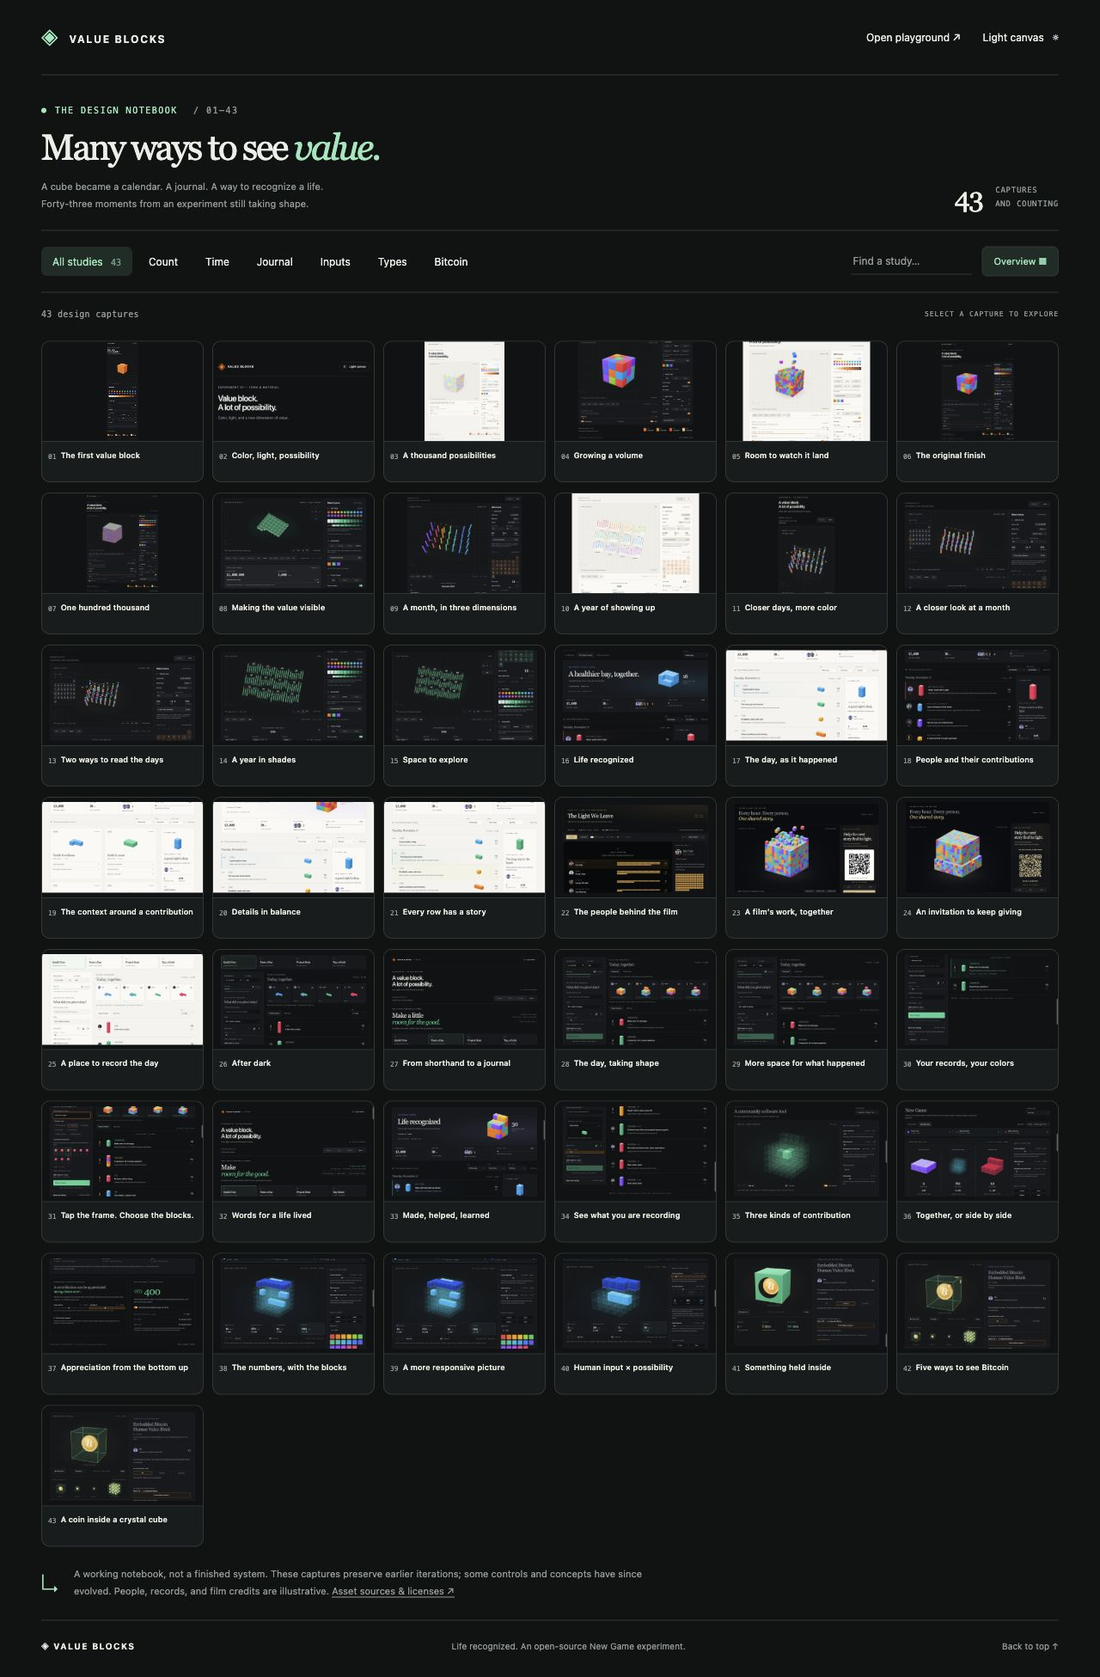
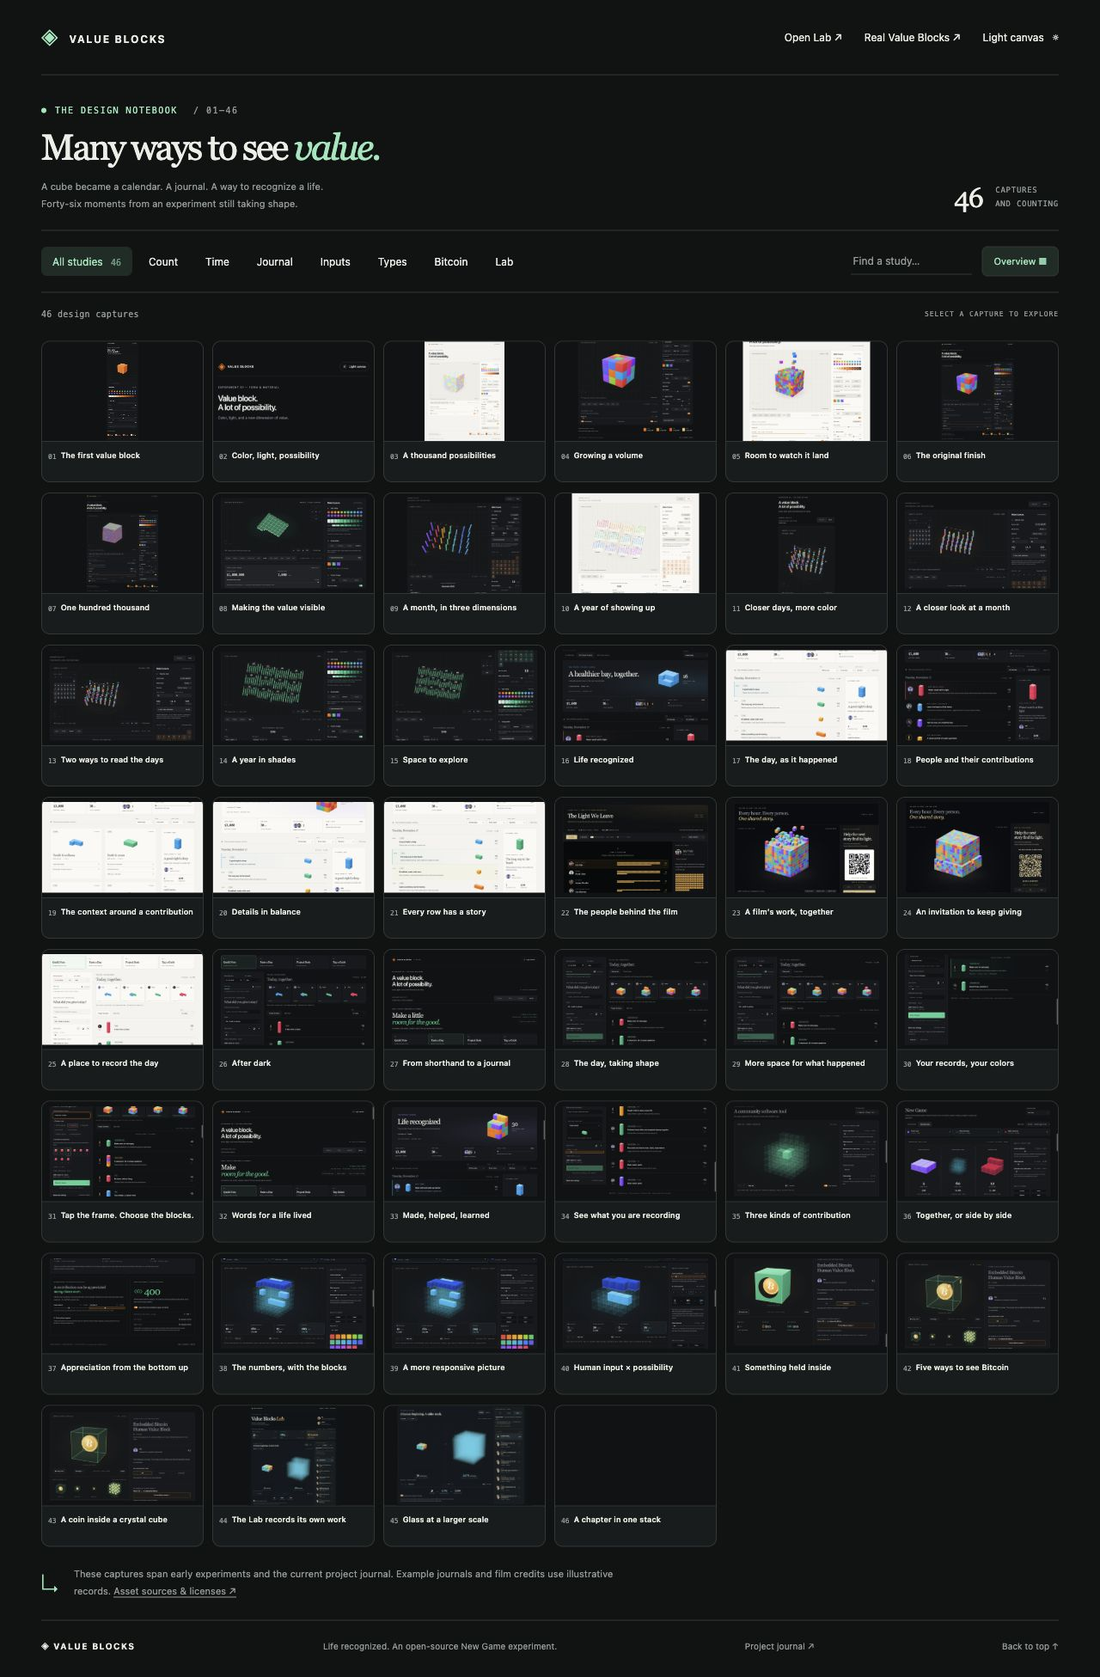
Refresh the Value Blocks gallery and README
Add three current project journal captures and make the Lab, Real Value Blocks, and Gallery easy to find from the README. Refresh the previews and use the supplied Bitcoin QR artwork with the verified project address.

Changed region(s): [[0.0625, 0.8303, 0.4688, 0.9534], [0.8125, 0.0, 0.8438, 0.0308]]

diff --git a/gallery.html b/gallery.html
@@ -3,7 +3,7 @@
 <head>
   <meta charset="utf-8">
   <meta name="viewport" content="width=device-width,initial-scale=1">
-  <meta name="description" content="43 design studies from the Value Blocks playground: 3D cubes, calendars, journals, recording interfaces, and human contributions.">
+  <meta name="description" content="46 design studies from the Value Blocks playground: 3D cubes, calendars, journals, recording interfaces, and human contributions.">
   <title>Design gallery — Value Blocks</title>
   <link rel="stylesheet" href="gallery.css">
   <script src="gallery.js" defer></script>
@@ -11,21 +11,21 @@
 <body>
   <a class="skip-link" href="#captures">Skip to the captures</a>
   <div class="gallery-shell">
-    <header class="gallery-nav"><a class="wordmark" href="index.html"><span aria-hidden="true">◈</span> VALUE BLOCKS</a><nav aria-label="Gallery navigation"><a href="index.html">Open playground <span aria-hidden="true">↗</span></a><button id="theme" aria-label="Switch to light canvas">Light canvas <span aria-hidden="true">☼</span></button></nav></header>
+    <header class="gallery-nav"><a class="wordmark" href="index.html"><span aria-hidden="true">◈</span> VALUE BLOCKS</a><nav aria-label="Gallery navigation"><a href="index.html">Open Lab <span aria-hidden="true">↗</span></a><a href="lab.html">Real Value Blocks <span aria-hidden="true">↗</span></a><button id="theme" aria-label="Switch to light canvas">Light canvas <span aria-hidden="true">☼</span></button></nav></header>
     <main>
       <section class="gallery-intro" aria-labelledby="gallery-title">
-        <p class="eyebrow"><span class="status-dot"></span> THE DESIGN NOTEBOOK <span class="edition">/ 01—43</span></p>
+        <p class="eyebrow"><span class="status-dot"></span> THE DESIGN NOTEBOOK <span class="edition">/ 01—46</span></p>
         <h1 id="gallery-title">Many ways to<br> see <em>value.</em></h1>
-        <div class="intro-bottom"><p>A cube became a calendar. A journal. A way to recognize a life.<br>Forty-three moments from an experiment still taking shape.</p><div class="gallery-stat"><strong>43</strong><span>CAPTURES<br>AND COUNTING</span></div></div>
+        <div class="intro-bottom"><p>A cube became a calendar. A journal. A way to recognize a life.<br>Forty-six moments from an experiment still taking shape.</p><div class="gallery-stat"><strong>46</strong><span>CAPTURES<br>AND COUNTING</span></div></div>
       </section>
       <section class="gallery-controls" aria-label="Browse captures">
         <div class="filters" role="group" aria-label="Filter by study">
-          <button data-filter="All" aria-pressed="true">All studies <span>43</span></button>
-          <button data-filter="Count" aria-pressed="false">Count</button><button data-filter="Time" aria-pressed="false">Time</button><button data-filter="Journal" aria-pressed="false">Journal</button><button data-filter="Inputs" aria-pressed="false">Inputs</button><button data-filter="Types" aria-pressed="false">Types</button><button data-filter="Bitcoin" aria-pressed="false">Bitcoin</button>
+          <button data-filter="All" aria-pressed="true">All studies <span>46</span></button>
+          <button data-filter="Count" aria-pressed="false">Count</button><button data-filter="Time" aria-pressed="false">Time</button><button data-filter="Journal" aria-pressed="false">Journal</button><button data-filter="Inputs" aria-pressed="false">Inputs</button><button data-filter="Types" aria-pressed="false">Types</button><button data-filter="Bitcoin" aria-pressed="false">Bitcoin</button><button data-filter="Lab" aria-pressed="false">Lab</button>
         </div>
         <div class="view-controls"><label class="search"><span class="visually-hidden">Search captures</span><input id="search" type="search" placeholder="Find a study…"></label><button id="overview" aria-pressed="false">Overview <span aria-hidden="true">▦</span></button></div>
       </section>
-      <div class="results-line"><p id="results" role="status">43 design captures</p><span>SELECT A CAPTURE TO EXPLORE</span></div>
+      <div class="results-line"><p id="results" role="status">46 design captures</p><span>SELECT A CAPTURE TO EXPLORE</span></div>
       <section id="captures" class="capture-grid" aria-label="Design captures">
       <!-- CAPTURES:START -->
       <article class="capture" data-category="Count">
@@ -286,10 +286,28 @@
           <div class="capture-caption"><span class="capture-number">43</span><div><h2>A coin inside a crystal cube</h2><p>A glass human block with the coin visible as it rotates.</p></div><span class="capture-category">Bitcoin</span></div>
         </a>
       </article>
+      <article class="capture" data-category="Lab">
+        <a class="capture-link" href="gallery-assets/captures/lab-real-journal.jpg" aria-label="View The Lab records its own work">
+          <div class="capture-image"><img src="gallery-assets/captures/lab-real-journal.jpg" alt="Bob and Lindsay’s real journal with 31 human blocks and 689 estimated robot blocks in the Working view." loading="lazy" decoding="async"></div>
+          <div class="capture-caption"><span class="capture-number">44</span><div><h2>The Lab records its own work</h2><p>Bob and Lindsay’s real journal with 31 human blocks and 689 estimated robot blocks in the Working view.</p></div><span class="capture-category">Lab</span></div>
+        </a>
+      </article>
+      <article class="capture" data-category="Lab">
+        <a class="capture-link" href="gallery-assets/captures/lab-deep-webgl.jpg" aria-label="View Glass at a larger scale">
+          <div class="capture-image"><img src="gallery-assets/captures/lab-deep-webgl.jpg" alt="The Deep estimate draws 2,179 translucent robot blocks with WebGL2." loading="lazy" decoding="async"></div>
+          <div class="capture-caption"><span class="capture-number">45</span><div><h2>Glass at a larger scale</h2><p>The Deep estimate draws 2,179 translucent robot blocks with WebGL2.</p></div><span class="capture-category">Lab</span></div>
+        </a>
+      </article>
+      <article class="capture" data-category="Lab">
+        <a class="capture-link" href="gallery-assets/captures/lab-combined-chapter.jpg" aria-label="View A chapter in one stack">
+          <div class="capture-image"><img src="gallery-assets/captures/lab-combined-chapter.jpg" alt="The latest journal chapter shows 4 human blocks and 60 estimated robot blocks together in the original CSS style." loading="lazy" decoding="async"></div>
+          <div class="capture-caption"><span class="capture-number">46</span><div><h2>A chapter in one stack</h2><p>The latest journal chapter shows 4 human blocks and 60 estimated robot blocks together in the original CSS style.</p></div><span class="capture-category">Lab</span></div>
+        </a>
+      </article>
       <!-- CAPTURES:END -->
       </section>
       <p id="empty" hidden>No studies match this search. Try another word or choose All studies.</p>
-      <aside class="gallery-note"><span aria-hidden="true">↳</span><p>A working notebook, not a finished system. These captures preserve earlier iterations; some controls and concepts have since evolved. People, records, and film credits are illustrative. <a href="THIRD_PARTY_NOTICES.md">Asset sources & licenses ↗</a></p></aside>
+      <aside class="gallery-note"><span aria-hidden="true">↳</span><p>These captures span early experiments and the current project journal. Example journals and film credits use illustrative records. <a href="THIRD_PARTY_NOTICES.md">Asset sources & licenses ↗</a></p></aside>
     </main>
     <footer><a class="wordmark" href="index.html">◈ VALUE BLOCKS</a><span>Life recognized. An open-source New Game experiment.</span><a href="lab.html">Project journal ↗</a><a href="#gallery-title">Back to top ↑</a></footer>
   </div>

diff --git a/README.md b/README.md
@@ -2,11 +2,53 @@
 
 **Life recognized.** An open-source visual playground for seeing human effort, care, gifts, and AI-assisted contributions as beautiful, stackable 3D blocks.
 
-**[Our real project · Value Blocks Lab journal](https://mullojo.github.io/3d-value-blocks/lab.html) · [Open the playground](https://mullojo.github.io/3d-value-blocks/) · [Explore the gallery](https://mullojo.github.io/3d-value-blocks/gallery.html)**
+| Page | What you’ll find | Local file |
+| --- | --- | --- |
+| [Lab](https://mullojo.github.io/3d-value-blocks/) | Explore 3D blocks, calendars, example journals, and ways to record contributions. | [index.html](index.html) |
+| [Real Value Blocks](https://mullojo.github.io/3d-value-blocks/lab.html) | See Bob and Lindsay’s actual work on the Lab and the estimated AI effort saved. | [lab.html](lab.html) |
+| [Gallery](https://mullojo.github.io/3d-value-blocks/gallery.html) | Browse 46 screenshots from the first cube to the current project journal. | [gallery.html](gallery.html) |
 
 Built with Vue 3, Tailwind CSS 4, CSS 3D, and an optional WebGL2 renderer. This is an ongoing New Game economy design experiment: a place to explore visual language and interactions before building the larger systems behind them.
 
 ![Human, gift, and robot contributions arranged in a shared 3D stack](docs/images/types-stack.jpg)
+
+## Lab
+
+Style a cube or explore five views of value in the playground. [Open the Lab](https://mullojo.github.io/3d-value-blocks/)
+
+| View | What you can try |
+| --- | --- |
+| **Count** | Style one cube or build large groups. Explore Tailwind palettes, face shading, edges, rotation, zoom, pan, and paced falling blocks. Keep the original CSS finish or switch to GPU rendering for counts up to 100,000. |
+| **Time** | Real calendar layouts for a day, week, month, or year. Explore daily towers, 3×3×3 cubits, compact spacing, and contribution-density gradients. |
+| **Journal** | Fictional life and project journals: daily flow, people with stacks, frame stories, and interactive scrolling film credits with a falling-block finale. Click entries for details. |
+| **Inputs** | Record, edit, and delete playful local entries using text parsing, row forms, project/team entry, or Tap Select. Watch people’s daily stacks grow. |
+| **Types** | Compare human, gift, and robot blocks, filter or restack them, explore project stories and contribution totals, and try embedded-Bitcoin human-block designs. |
+
+The earlier [single-cube](https://mullojo.github.io/3d-value-blocks/archived/v1-simple-start/index.html), [paced CSS](https://mullojo.github.io/3d-value-blocks/archived/v2-paced-css/index.html), and [GPU count](https://mullojo.github.io/3d-value-blocks/archived/v3-gpu-counts/index.html) experiments remain available in `archived/`.
+
+## Real Value Blocks
+
+[Explore the real project journal in 3D](https://mullojo.github.io/3d-value-blocks/lab.html), with Bob’s and Lindsay’s profiles, the recorded contributions, and linked human/robot stacks. Switch between estimate scenarios or select one of the seven work periods. This is a self-reference: the Lab uses its own blocks to tell the real story of making the Lab.
+
+[![Value Blocks Lab project journal: recorded human contributions and estimated robot expansion](docs/images/lab-journal.jpg)](https://mullojo.github.io/3d-value-blocks/lab.html)
+
+This project now has its own value-block journal. The record recognizes **31 human blocks ≈ 31 hours · $3,100 of base human value**: Bob’s **21 confirmed blocks + 3 new chat-estimated blocks**, plus **7 review and collaboration blocks for Lindsay, reported by Bob**. The latest chapter covers the guides, real project journal, and rendering improvements.
+
+The companion AI model explores about **8×–71× total-output scenarios**, with **23.2× as its working estimate**: **31 human + 689 robot = 720 human-equivalent blocks**. Robot blocks describe estimated additional effort saved, rather than extra human hours or cash received. The no-AI workload budgets and assumptions are open to inspection and revision.
+
+- [Human contribution journal](docs/HUMAN_VALUE_BLOCKS.md) · [Reusable human-block guide](docs/HUMAN_VALUE_BLOCKS_GUIDE.md)
+- [Robot expansion estimates](docs/ROBOT_VALUE_BLOCKS.md) · [Starter robot-block guide](docs/ROBOT_VALUE_BLOCKS_GUIDE.md)
+- [Robot expansion mental model](docs/ROBOT_EXPANSION_MENTAL_MODEL.md): human bandwidth, AI capacity, availability, and useful work.
+
+For the underlying numbers and evidence, explore the [structured contribution ledger](docs/value-block-records/ledger.json), [source inventory](docs/value-block-records/source-inventory.json), and [chat chronology](docs/value-block-records/chat-evidence.json).
+
+## Gallery
+
+[Explore all 46 design captures](https://mullojo.github.io/3d-value-blocks/gallery.html): filter by study, search the notebook, or open a full-size image and browse with the arrow keys. The Overview layout gathers every capture into one view. Select **Lab** to find the three current project journal captures. The other studies trace the earlier design iterations.
+
+[![Overview of all 46 Value Blocks design captures](docs/images/gallery-overview.jpg)](https://mullojo.github.io/3d-value-blocks/gallery.html)
+
+The gallery’s images are included locally in `gallery-assets/captures/`, so it works from a file or a static host without relying on a separate folder. See [publishing with GitHub Desktop and GitHub Pages](docs/PUBLISHING.md) to put the playground and gallery online.
 
 ## Run it
 
@@ -19,26 +61,6 @@ python3 -m http.server 8317 --bind 127.0.0.1
 ```
 
 Visit [http://127.0.0.1:8317](http://127.0.0.1:8317). Stop with Ctrl-C. File opening works too, but storage and clipboard support depend on the browser. Records saved at one origin do not automatically appear at another.
-
-## Explore five views
-
-| View | What you can try |
-| --- | --- |
-| **Count** | Style one cube or build large groups. Explore Tailwind palettes, face shading, edges, rotation, zoom, pan, and paced falling blocks. Keep the original CSS finish or switch to GPU rendering for counts up to 100,000. |
-| **Time** | Real calendar layouts for a day, week, month, or year. Explore daily towers, 3×3×3 cubits, compact spacing, and contribution-density gradients. |
-| **Journal** | Fictional life and project journals: daily flow, people with stacks, frame stories, and interactive scrolling film credits with a falling-block finale. Click entries for details. |
-| **Inputs** | Record, edit, and delete playful local entries using text parsing, row forms, project/team entry, or Tap Select. Watch people’s daily stacks grow. |
-| **Types** | Compare human, gift, and robot blocks, filter or restack them, explore project stories and contribution totals, and try embedded-Bitcoin human-block designs. |
-
-The earlier [single-cube](https://mullojo.github.io/3d-value-blocks/archived/v1-simple-start/index.html), [paced CSS](https://mullojo.github.io/3d-value-blocks/archived/v2-paced-css/index.html), and [GPU count](https://mullojo.github.io/3d-value-blocks/archived/v3-gpu-counts/index.html) experiments remain available in `archived/`.
-
-## Design gallery
-
-[Explore all 43 design captures](https://mullojo.github.io/3d-value-blocks/gallery.html): filter by study, search the notebook, or open a full-size image and browse with the arrow keys. The Overview layout gathers every capture into one view. These are historical experiments, including earlier versions of today’s interfaces.
-
-[![Overview of all 43 Value Blocks design captures](docs/images/gallery-overview.jpg)](https://mullojo.github.io/3d-value-blocks/gallery.html)
-
-The gallery’s images are included locally in `gallery-assets/captures/`, so it works from a file or a static host without relying on a separate folder. See [publishing with GitHub Desktop and GitHub Pages](docs/PUBLISHING.md) to put the playground and gallery online.
 
 ## What is a value block?
 
@@ -72,22 +94,6 @@ node scripts/check.cjs
 
 The same command is configured for GitHub Actions. Browser visual checks remain important for 3D materials, motion, and interactions; the script checks the models and rendering assumptions, not every browser pixel.
 
-## Contributions, recognized
-
-[Explore the real project journal in 3D](https://mullojo.github.io/3d-value-blocks/lab.html), with Bob’s and Lindsay’s profiles, the recorded contributions, and linked human/robot stacks. Switch between estimate scenarios or select one of the seven work periods. This is a self-reference: the Lab uses its own blocks to tell the real story of making the Lab.
-
-[![Value Blocks Lab project journal: recorded human contributions and estimated robot expansion](docs/images/lab-journal.jpg)](https://mullojo.github.io/3d-value-blocks/lab.html)
-
-This project now has its own value-block journal. The record recognizes **31 human blocks ≈ 31 hours · $3,100 of base human value**: Bob’s **21 confirmed blocks + 3 new chat-estimated blocks**, plus **7 review and collaboration blocks for Lindsay, reported by Bob**. The latest chapter covers the guides, real project journal, and rendering improvements.
-
-The companion AI model explores about **8×–71× total-output scenarios**, with **23.2× as its working estimate**: **31 human + 689 robot = 720 human-equivalent blocks**. Robot blocks describe estimated additional effort saved, rather than extra human hours or cash received. The no-AI workload budgets and assumptions are open to inspection and revision.
-
-- [Human contribution journal](docs/HUMAN_VALUE_BLOCKS.md) · [Reusable human-block guide](docs/HUMAN_VALUE_BLOCKS_GUIDE.md)
-- [Robot expansion estimates](docs/ROBOT_VALUE_BLOCKS.md) · [Starter robot-block guide](docs/ROBOT_VALUE_BLOCKS_GUIDE.md)
-- [Robot expansion mental model](docs/ROBOT_EXPANSION_MENTAL_MODEL.md): human bandwidth, AI capacity, availability, and useful work.
-
-For the underlying numbers and evidence, explore the [structured contribution ledger](docs/value-block-records/ledger.json), [source inventory](docs/value-block-records/source-inventory.json), and [chat chronology](docs/value-block-records/chat-evidence.json).
-
 ## Support this open-source experiment
 
 Bitcoin giving helps support Value Blocks as an open-source New Game economy project: design exploration, implementation, documentation, and continued experiments in recognizing human value.
@@ -98,7 +104,7 @@ Bitcoin giving helps support Value Blocks as an open-source New Game economy pro
 bc1q5qk0kln078zcky3ylk2axvr69jjrfxewmutwzqcgkvhwhnmtvynsdveyu5
 ```
 
-<img src="assets/support-bitcoin.svg" width="240" alt="Bitcoin QR code for supporting the Value Blocks project">
+<img src="assets/support-bitcoin-lab.png" width="320" alt="Scan to give Bitcoin to Value Blocks Lab, Bob and Lindsay">
 
 Scan with a Bitcoin wallet, or copy the address. No amount is prefilled. See [SUPPORT.md](SUPPORT.md) for the payment URI and verification details. Giving is optional; it does not purchase blocks or promise financial returns, tokens, or draft-protocol eligibility.
 

diff --git a/gallery-assets/README.md b/gallery-assets/README.md
@@ -1,9 +1,9 @@
 # Design gallery assets
 
-All 43 historical design captures are published here for the [gallery](../gallery.html). The local originals remain in the separate design-captures folder. Keeping these assets inside this project makes the gallery work from a local file, a GitHub Pages repository subpath, or another static host.
+All 46 captures, including three current project journal views, are published here for the [gallery](../gallery.html). The local originals remain in the separate design-captures folder. Keeping these assets inside this project makes the gallery work from a local file, a GitHub Pages repository subpath, or another static host.
 
 `captures.json` supplies the display order, categories, and descriptive captions. `scripts/build-gallery.cjs` generates the static HTML cards from it. Run that script after updating the manifest; no build step is required to view the committed gallery.
 
-The images record earlier iterations, including superseded interfaces. Some screenshots contain illustrative Unsplash portraits, with fictional names and affiliations. See [third-party notices](../THIRD_PARTY_NOTICES.md) and [portrait sources](../journal-assets/README.md); the photographs retain their own license.
+The images span earlier iterations and the current project journal. Some screenshots contain illustrative Unsplash portraits, with fictional names and affiliations. See [third-party notices](../THIRD_PARTY_NOTICES.md) and [portrait sources](../journal-assets/README.md); the photographs retain their own license.
 
 The README overview at `docs/images/gallery-overview.jpg` is a browser screenshot of the gallery’s Overview layout with all filters cleared. Refresh it after adding captures.

diff --git a/docs/PUBLISHING.md b/docs/PUBLISHING.md
@@ -28,7 +28,7 @@ Click **Create Repository**. Desktop should initialize Git in the existing proje
 
 Review the Changes and History tabs. If the project files appear as uncommitted changes, use the summary `Open source the Value Blocks playground` and click **Commit to main**. If Desktop already included them in its initial commit, there may be nothing left to commit. Confirm the current branch is `main`; use Desktop’s branch menu to rename it if needed.
 
-The 43 gallery images are intentionally included in `gallery-assets/captures/`. Loose `preview*` captures and local browser benchmark files remain ignored. The gallery now adds about 3 MB to the project; it is self-contained for publishing. Original off-project captures remain preserved separately.
+The 46 gallery images are included in `gallery-assets/captures/` so the gallery is self-contained. Loose `preview*` captures and local browser benchmark files remain ignored. Original off-project captures remain preserved separately.
 
 ## 2. Publish the public repository
 

diff --git a/docs/README.md b/docs/README.md
@@ -14,7 +14,7 @@ Start with the [project README](../README.md) to run the playground and explore 
 - [Contributing](../CONTRIBUTING.md): workflow, design conventions, and asset licensing.
 - [Supporting the project](../SUPPORT.md): real Bitcoin receiving address and QR.
 - [Third-party notices](../THIRD_PARTY_NOTICES.md): library licenses and illustrative portrait sources.
-- [Design gallery](../gallery.html): all 43 historical captures, with filters and a full-size viewer.
+- [Design gallery](../gallery.html): 46 historical and current captures, with filters and a full-size viewer.
 - [Publishing the first repository](PUBLISHING.md): local Git setup and the first GitHub push, when you are ready.
 
 The live page is a visual prototype. Economic scenarios and fictional giving demos are separate from the real project support address.
